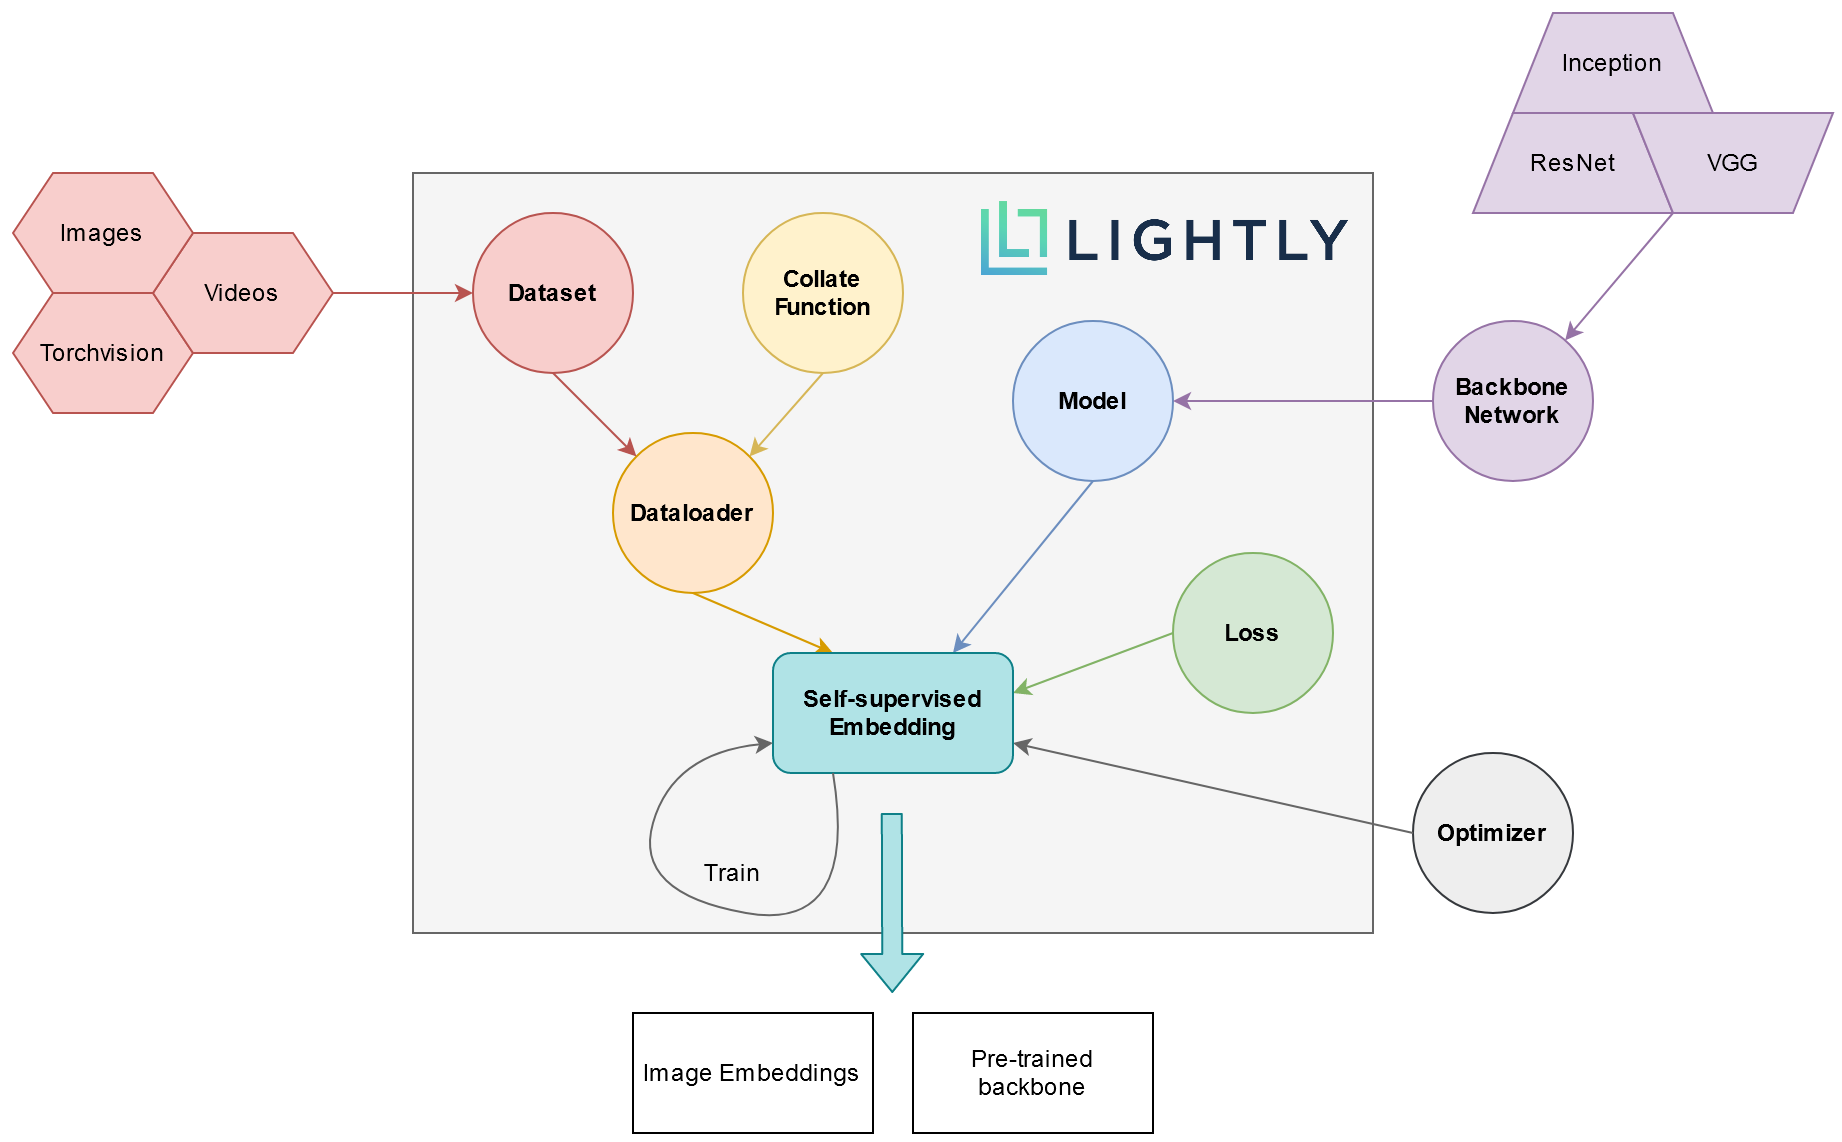
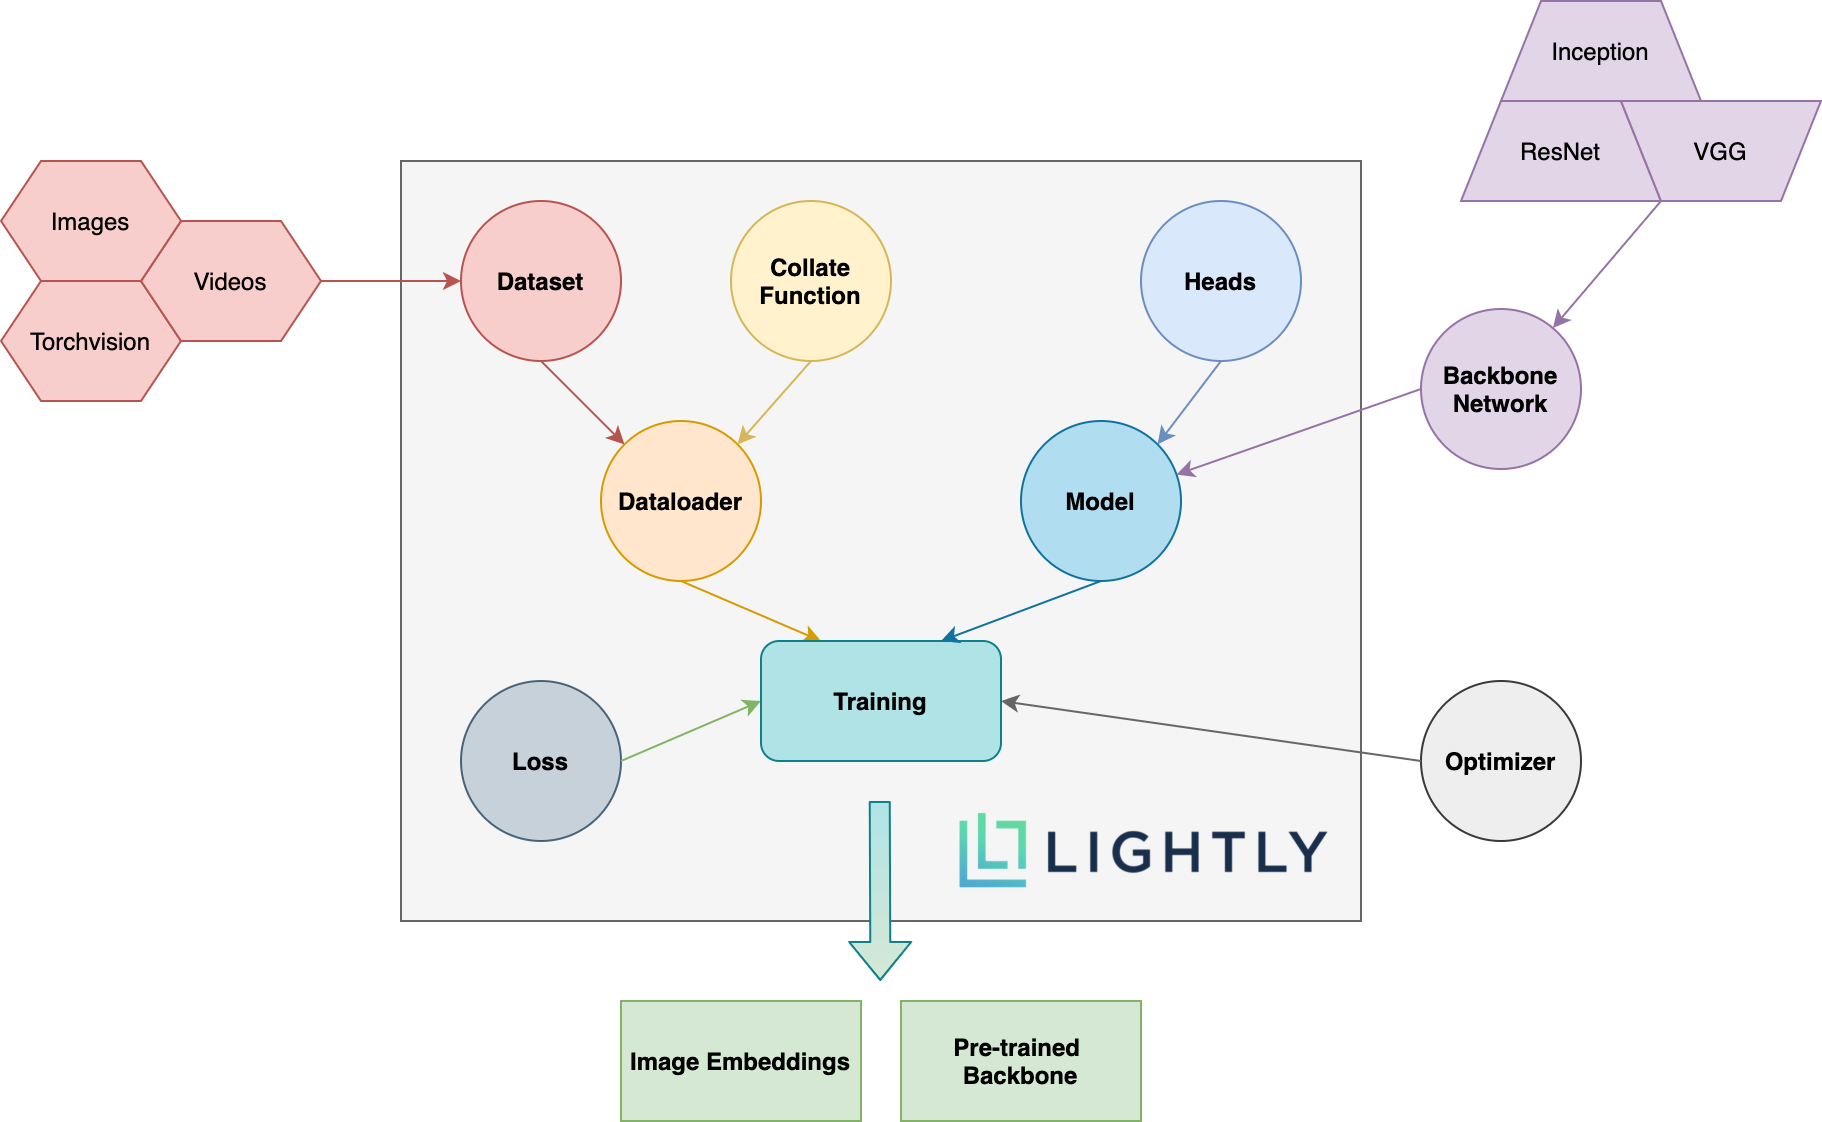
Update main concepts docs to low-level blocks
* Update figure
* Add training paragraph
* Add image embeddings paragraph
* Add backbone paragraph
* Remove Self-supervised Embedding

diff --git a/docs/source/getting_started/main_concepts.rst b/docs/source/getting_started/main_concepts.rst
@@ -1,12 +1,12 @@
 .. _lightly-main-concepts:
 
 Main concepts
-===================
+=============
 
 Self-supervised Learning
---------------------------
+------------------------
 
-The figure below shows an overview of the different used by the ligthly PIP package
+The figure below shows an overview of the different concepts used by the ligthly PIP package
 and a schema of how they interact. The expressions in **bold** are explained further
 below.
 
@@ -18,9 +18,12 @@ below.
     how they interact.
 
 * **Dataset**
-   In lightly, datasets are accessed through the :py:class:`lightly.data.dataset.LightlyDataset`.
+   In lightly, datasets are accessed through :py:class:`lightly.data.dataset.LightlyDataset`.
    You can create a `LightlyDataset` from a folder of images, videos, or simply from
-   a torchvision dataset. You can learn more about this here: :ref:`input-structure-label`.
+   a torchvision dataset. You can learn more about this here: 
+   
+   * :ref:`input-structure-label`
+   
 * **Collate Function**
    The collate function is the place where lightly applies augmentations which are crucial
    for self-supervised learning. You can use our pre-defined augmentations or write your own
@@ -37,7 +40,7 @@ below.
    backbone you want! If you don't know where to start, our tutorials show how you
    can get a backbone neural network from a :py:class:`lightly.models.resnet.ResNet`.
 * **Model**
-   The model combines your backbone neural network with a projection head and, if
+   The model combines your backbone neural network with one or multiple heads and, if
    required, a momentum encoder to provide an easy-to-use interface to the most
    popular self-supervised learning frameworks. Learn more in our tutorials:
 
@@ -47,22 +50,29 @@ below.
 
 * **Loss**
    The loss function plays a crucial role in self-supervised learning. Currently,
-   lightly supports a contrastive and a similarity based loss function.
+   lightly supports contrastive and similarity based loss functions.
 * **Optimizer**
    With lightly, you can use any PyTorch optimizer to train your model.
-* **Self-supervised Embedding**
-   The :py:class:`lightly.embedding.embedding.SelfSupervisedEmbedding` connects the concepts
-   from above in an easy-to-use `PyTorch-Lightning <https://www.pytorchlightning.ai/>`_ module.
-   After creating a `SelfSupervisedEmbedding`, it can be trained with a single line:
+* **Training**
+   The model can either be trained using a plain PyTorch training loop or
+   with a dedicated framework such as PyTorch Lightning. Lightly lets you
+   choose what is best for you. Check out our `tutorials section <https://docs.lightly.ai/tutorials/package.html>`_ 
+   for examples.
+* **Image Embeddings**
+   During the training process, the model learns to create compact embeddings from images.
+   The embeddings, also often called representations, can then be used for tasks such as
+   identifying similar images or creating a diverse subset from your data:
 
-   .. code-block:: Python
+   * :ref:`lightly-tutorial-sunflowers`
+   * :ref:`lightly-simsiam-tutorial-4`  
 
-      # build a self-supervised embedding and train it
-      encoder = lightly.embedding.SelfSupervisedEmbedding(model, loss, optimizer, dataloader)
-      encoder.train(gpus=1, max_epochs=10)
+* **Pre-trained Backbone**
+   The backbone can be reused after self-supervised training. We can transfer it
+   to any other task that requires a similar network architecture, including 
+   image classification, object detection and segmentation tasks. You can learn more in
+   our object detection tutorial:
 
-   However, you can still write the training loop in plain PyTorch code.
-   See :ref:`sphx_glr_tutorials_package_tutorial_simsiam_esa.py` for an example
+   * :ref:`lightly-detectron-tutorial-6`
 
 Active Learning
 -------------------
